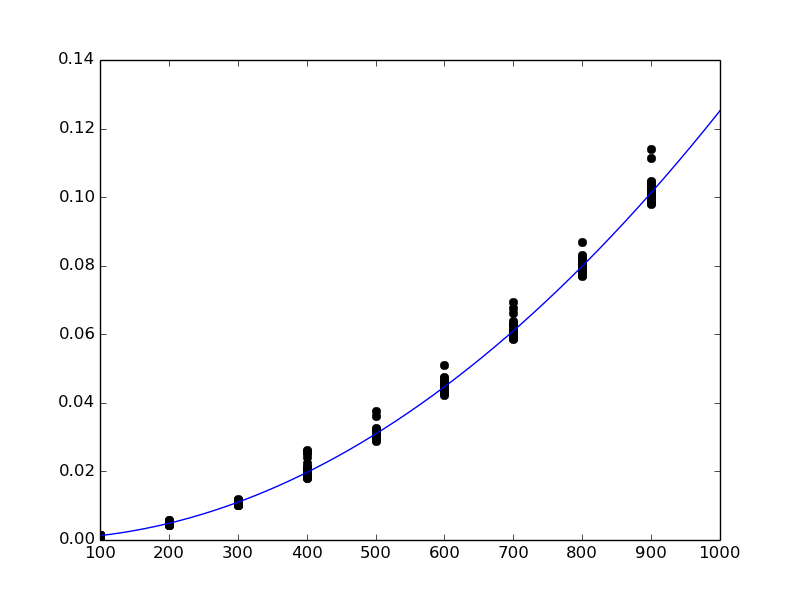
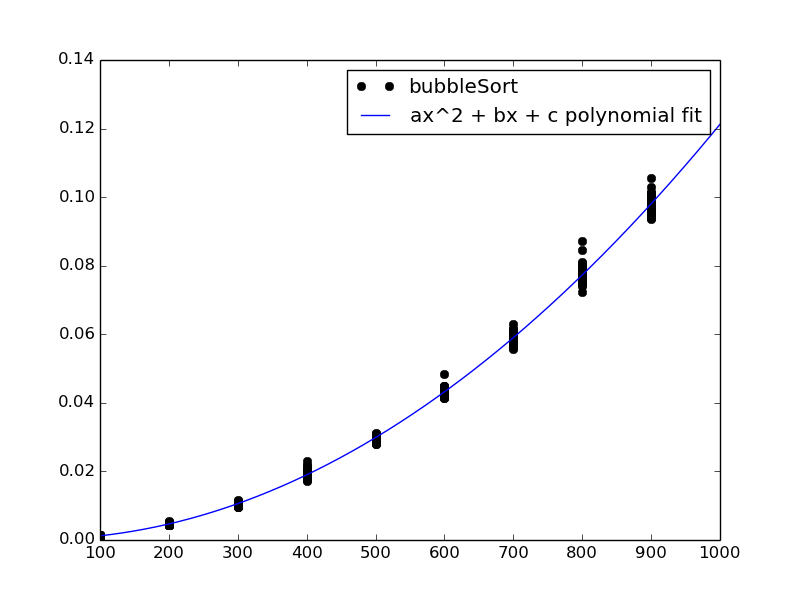
added legend capacity to curve_fit

diff --git a/Sorting_BMI_203/complexity_analysis.py b/Sorting_BMI_203/complexity_analysis.py
@@ -53,7 +53,8 @@ def curvefit_choice(data, fitfunc):
         yy = func(xx, *popt)
         
         plot(xdata,ydata, 'ko', label = 'bubbleSort')
-        plot(xx,yy, label='fit')
+        plot(xx,yy, label='ax^2 + bx + c polynomial fit')
+        legend()
         savefig('polyfit_bubbleSort.png')
         plt.clf()
     else: 
@@ -65,8 +66,9 @@ def graph(array, name):
     
     array_x = array[:,0]
     array_y = array[:,1]
-    plot(array_x,array_y, 'o')
+    plot(array_x,array_y, 'o', label = name)
     print array_y
+    legend()
     savefig(name + '.png')
     
     
@@ -124,8 +126,8 @@ def main():
         curvefit_choice(complex_array, 'polynomial')
     if method == 2:
         curvefit_choice(complex_array, 'log')
-    graph(assign_count_array, 'assignments_count')
-    graph(cond_count_array, 'conditionals_count')
+    graph(assign_count_array, 'Assignments Count')
+    graph(cond_count_array, 'Conditionals Count')
     return complex_array
 if __name__ == '__main__':
     main()
